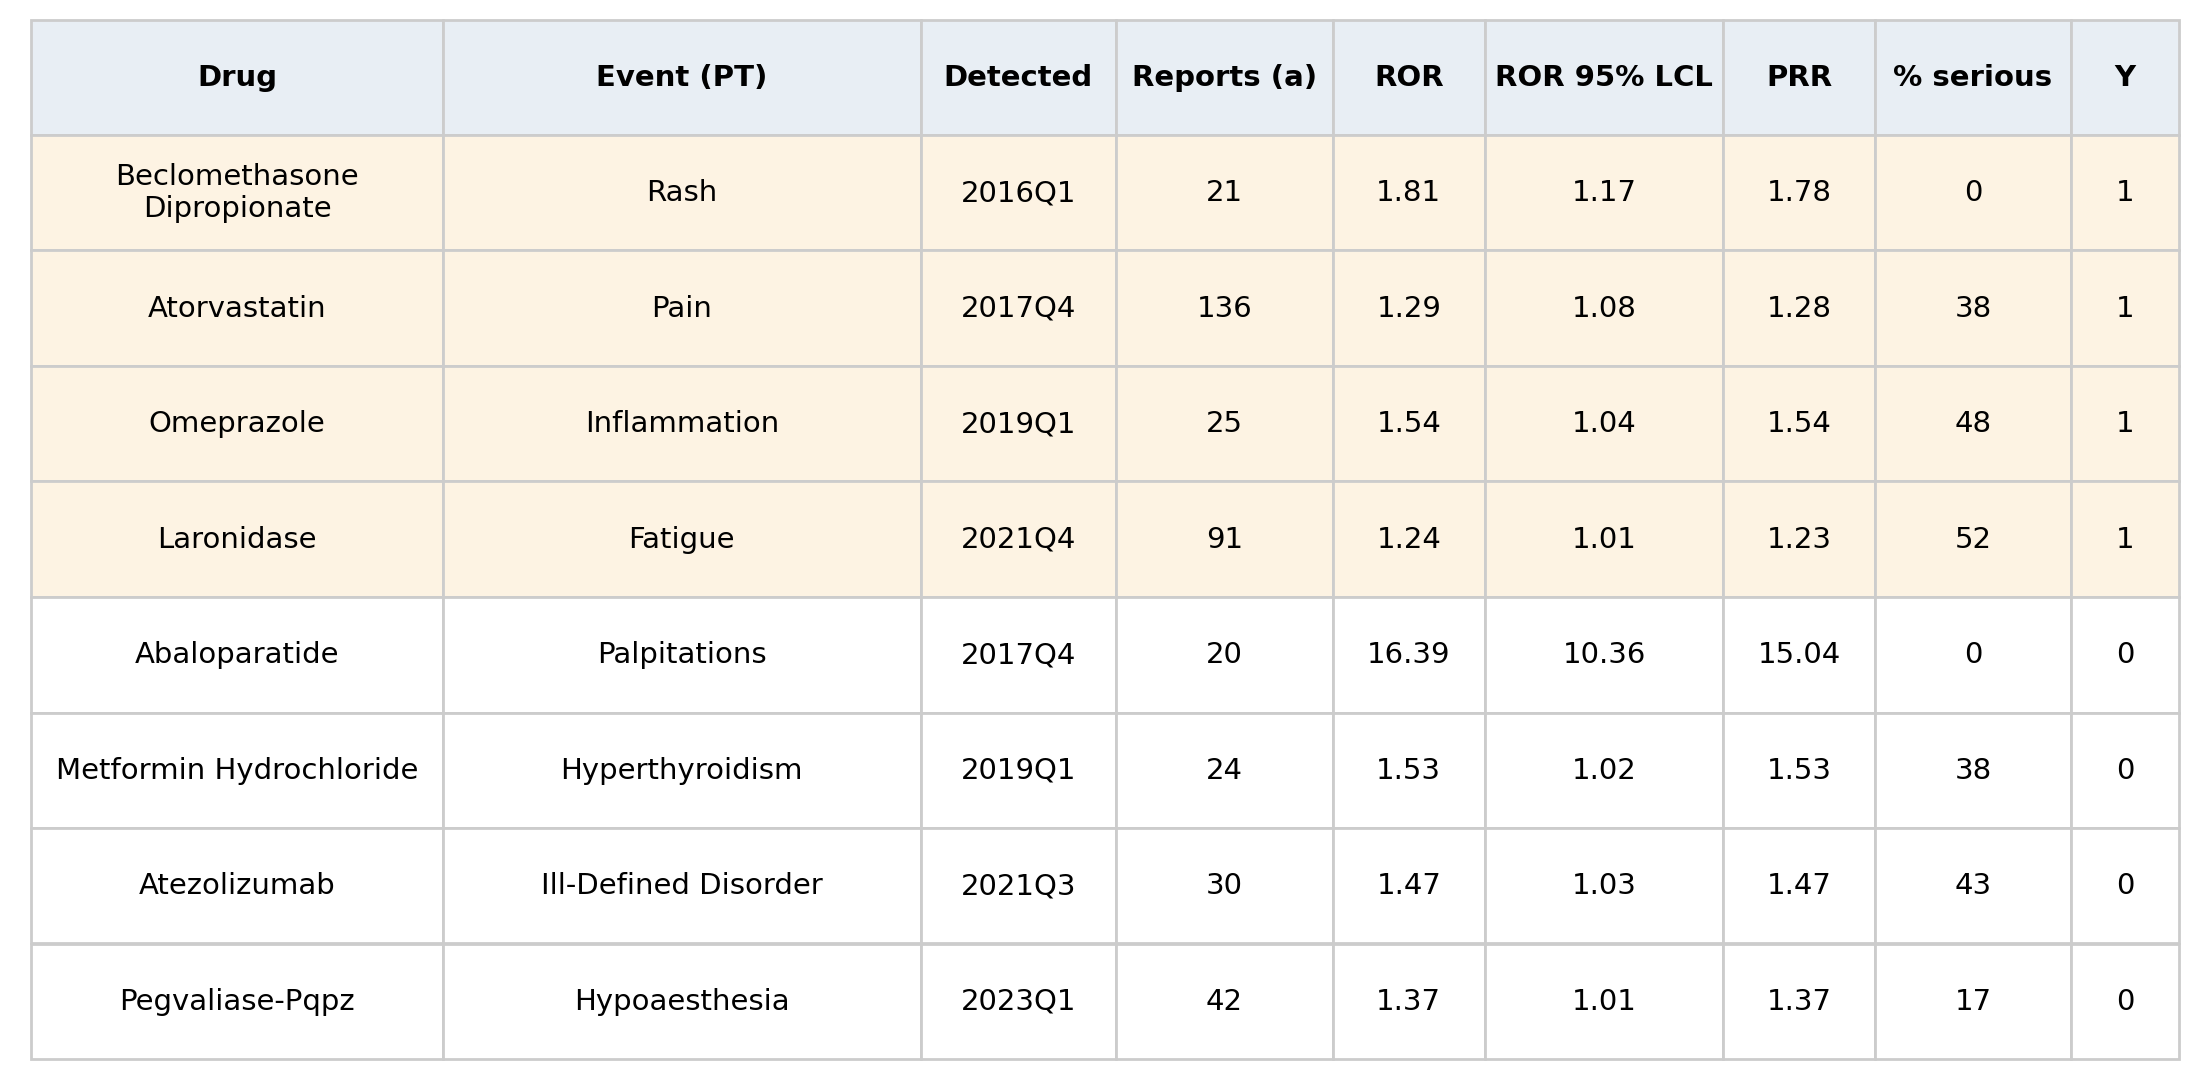
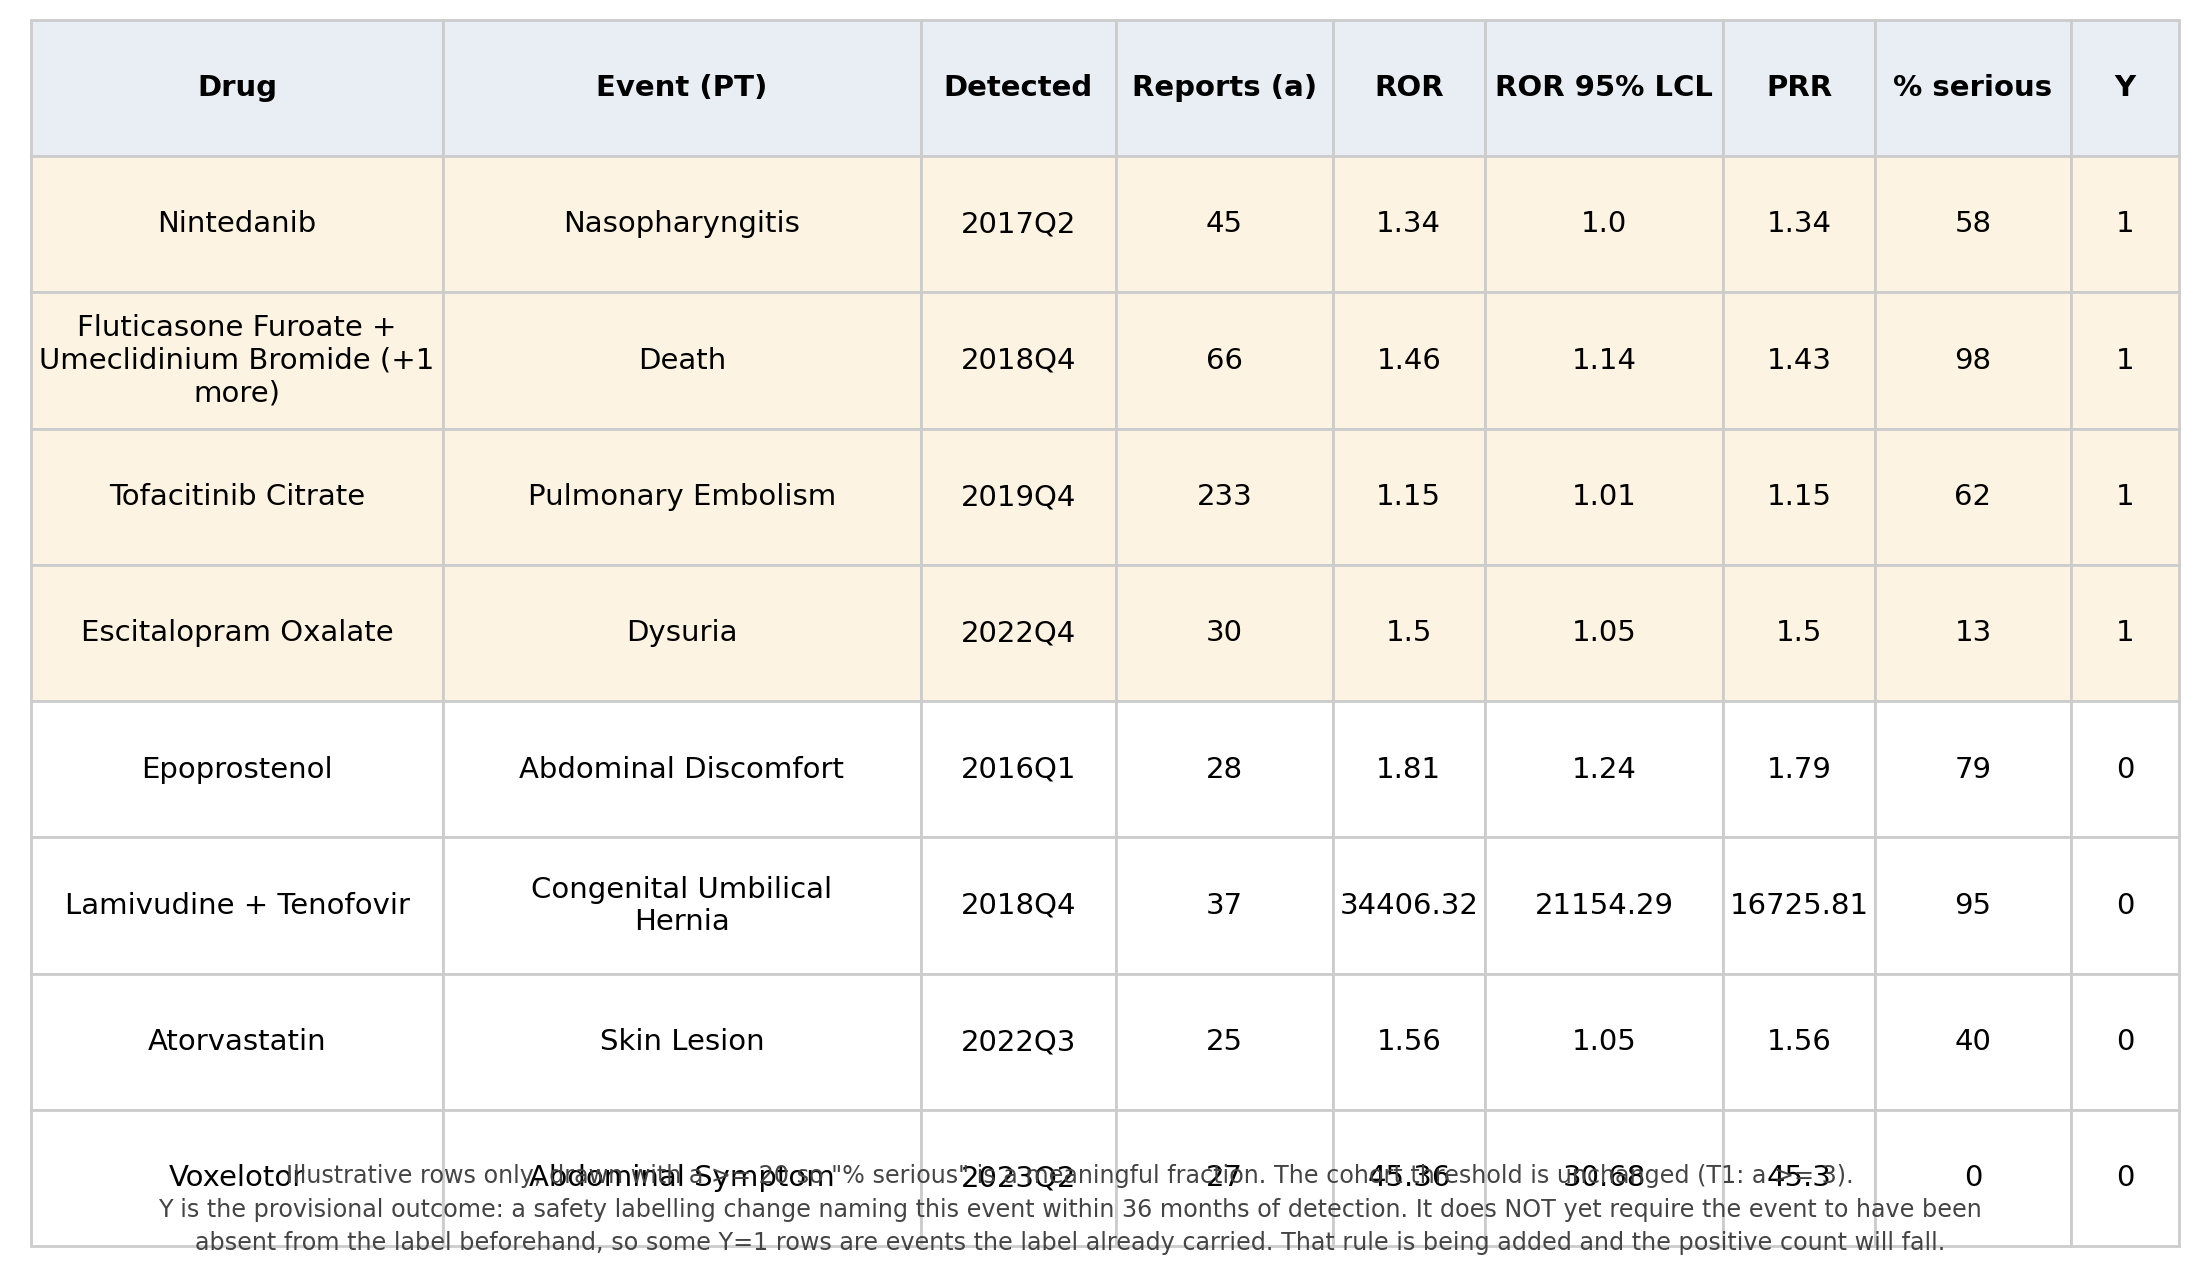
Carry the slide caveats on the sample figure, and use the pre-registered PT filter
Two caveats are now drawn under the table so a slide cannot overclaim:
- a >= 20 is a readability choice for this table only; the cohort threshold is
  unchanged (T1: a >= 3)
- Y is the provisional outcome and does NOT yet require the event to have been absent
  from the label before detection, so some Y=1 rows are events the label already
  carried. Decisions 74-78 add that rule and the positive count will fall.

The export also stops using its own ad-hoc NON_CLINICAL regex and calls the
pre-registered rule in scripts/nonclinical_pts.py instead, so the sample shows the
same cohort the pipeline will build. That drops the bare PAIN, INFLAMMATION and
ILL-DEFINED DISORDER rows, which decision 79 already excludes.

diff --git a/scripts/export_sample_rows.py b/scripts/export_sample_rows.py
@@ -54,7 +54,13 @@ checks = dict(
                              "table and no Drugs@FDA or other approval source has been collected")
 
 # ---------------------------------------------------------------- sample
-pool = f[(f.a >= MIN_A) & (~f.pt_clean.str.upper().str.contains(NON_CLINICAL, regex=True))].copy()
+# Use the pre-registered rule (scripts/nonclinical_pts.py, decisions 68 and 79) rather
+# than this file's own regex, so the slide shows the same cohort the pipeline will build.
+# The cohort rebuild that applies decision 79 has not run yet; filtering here keeps the
+# sample consistent with the committed rule instead of ahead of or behind it.
+import sys as _sys; _sys.path.insert(0, str(Path(__file__).parent))
+from nonclinical_pts import is_nonclinical
+pool = f[(f.a >= MIN_A) & (~f.pt_clean.map(is_nonclinical))].copy()
 pool["year"] = pool.detection_quarter.str[:4]
 rng = np.random.default_rng(SEED)
 
@@ -120,7 +126,7 @@ disp["Drug"] = [textwrap.fill(v, 24) for v in disp["Drug"]]
 disp["Event (PT)"] = [textwrap.fill(v, 26) for v in disp["Event (PT)"]]
 widths = [0.19, 0.22, 0.09, 0.10, 0.07, 0.11, 0.07, 0.09, 0.05]
 
-fig, ax = plt.subplots(figsize=(14, 5.0))
+fig, ax = plt.subplots(figsize=(14, 5.9))
 ax.axis("off")
 t = ax.table(cellText=disp.astype(str).values, colLabels=disp.columns,
              colWidths=widths, cellLoc="center", loc="center")
@@ -133,6 +139,20 @@ for (r, c), cell in t.get_celld().items():
     elif tbl.iloc[r - 1]["Y"] == 1:
         cell.set_facecolor("#fdf3e3")
 fig.patch.set_facecolor("white")
+
+# Two caveats carried ON the figure so the slide cannot overclaim. The a >= 20 filter is
+# a readability choice for this table only; the cohort keeps its own a_min (decision 23).
+# The Y column is the OLD definition and is being replaced by decisions 74-78.
+CAPTION = (
+    f"Illustrative rows only, drawn with a >= {MIN_A} so \"% serious\" is a meaningful "
+    f"fraction. The cohort threshold is unchanged (T1: a >= 3).\n"
+    "Y is the provisional outcome: a safety labelling change naming this event within 36 "
+    "months of detection. It does NOT yet require the event to have been\nabsent from the "
+    "label beforehand, so some Y=1 rows are events the label already carried. That rule is "
+    "being added and the positive count will fall."
+)
+fig.text(0.5, 0.045, CAPTION, ha="center", va="top", fontsize=8.6,
+         color="#444444", linespacing=1.5)
 plt.savefig(FIG / "sample_rows.png", dpi=200, facecolor="white", bbox_inches="tight")
 plt.close()
 

diff --git a/figures/sample_rows.md b/figures/sample_rows.md
@@ -1,10 +1,10 @@
 | Drug | Event (PT) | Detected | Reports (a) | ROR | ROR 95% LCL | PRR | % serious | Y |
 |---|---|---|---|---|---|---|---|---|
-| Beclomethasone Dipropionate | Rash | 2016Q1 | 21 | 1.81 | 1.17 | 1.78 | 0 | 1 |
-| Atorvastatin | Pain | 2017Q4 | 136 | 1.29 | 1.08 | 1.28 | 38 | 1 |
-| Omeprazole | Inflammation | 2019Q1 | 25 | 1.54 | 1.04 | 1.54 | 48 | 1 |
-| Laronidase | Fatigue | 2021Q4 | 91 | 1.24 | 1.01 | 1.23 | 52 | 1 |
-| Abaloparatide | Palpitations | 2017Q4 | 20 | 16.39 | 10.36 | 15.04 | 0 | 0 |
-| Metformin Hydrochloride | Hyperthyroidism | 2019Q1 | 24 | 1.53 | 1.02 | 1.53 | 38 | 0 |
-| Atezolizumab | Ill-Defined Disorder | 2021Q3 | 30 | 1.47 | 1.03 | 1.47 | 43 | 0 |
-| Pegvaliase-Pqpz | Hypoaesthesia | 2023Q1 | 42 | 1.37 | 1.01 | 1.37 | 17 | 0 |
+| Nintedanib | Nasopharyngitis | 2017Q2 | 45 | 1.34 | 1.0 | 1.34 | 58 | 1 |
+| Fluticasone Furoate + Umeclidinium Bromide (+1 more) | Death | 2018Q4 | 66 | 1.46 | 1.14 | 1.43 | 98 | 1 |
+| Tofacitinib Citrate | Pulmonary Embolism | 2019Q4 | 233 | 1.15 | 1.01 | 1.15 | 62 | 1 |
+| Escitalopram Oxalate | Dysuria | 2022Q4 | 30 | 1.5 | 1.05 | 1.5 | 13 | 1 |
+| Epoprostenol | Abdominal Discomfort | 2016Q1 | 28 | 1.81 | 1.24 | 1.79 | 79 | 0 |
+| Lamivudine + Tenofovir | Congenital Umbilical Hernia | 2018Q4 | 37 | 34406.32 | 21154.29 | 16725.81 | 95 | 0 |
+| Atorvastatin | Skin Lesion | 2022Q3 | 25 | 1.56 | 1.05 | 1.56 | 40 | 0 |
+| Voxelotor | Abdominal Symptom | 2023Q2 | 27 | 45.36 | 30.68 | 45.3 | 0 | 0 |
